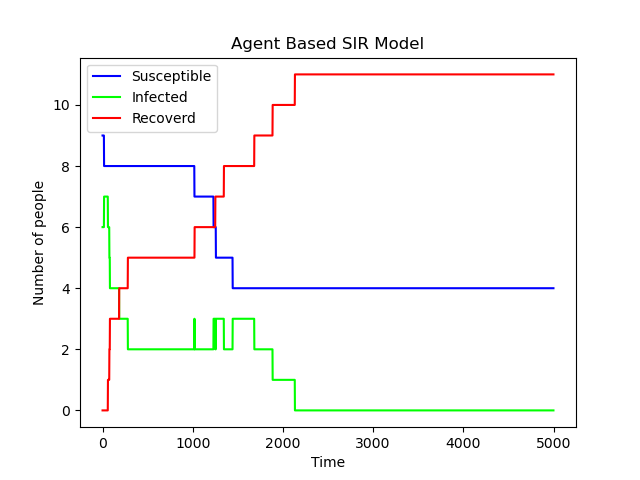
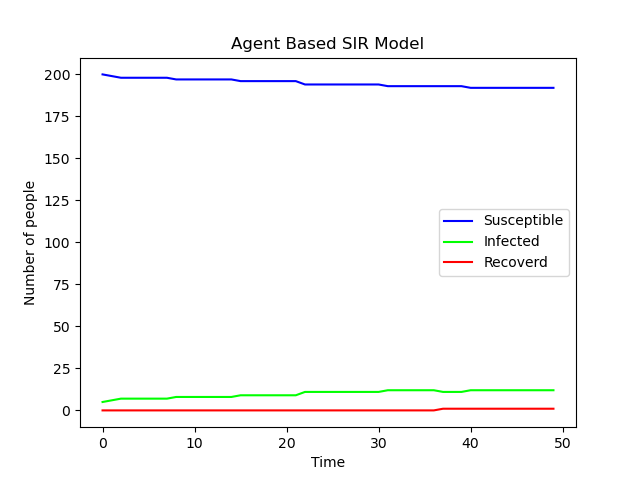
refactoring

diff --git a/Agent/animation.py b/Agent/animation.py
@@ -9,15 +9,14 @@ WHITE = (255,255,255)
 
 width, height = 600, 600
 
-T = 5000
+T = 50
 
 gamma = 0.0015
 beta = 0.05
 
-radius = 30.0
-init_S = 10
+radius = 10.0
+init_S = 200
 init_I = 5
-
 
 screen = pygame.display.set_mode((width,height))
 screen.fill(WHITE)
